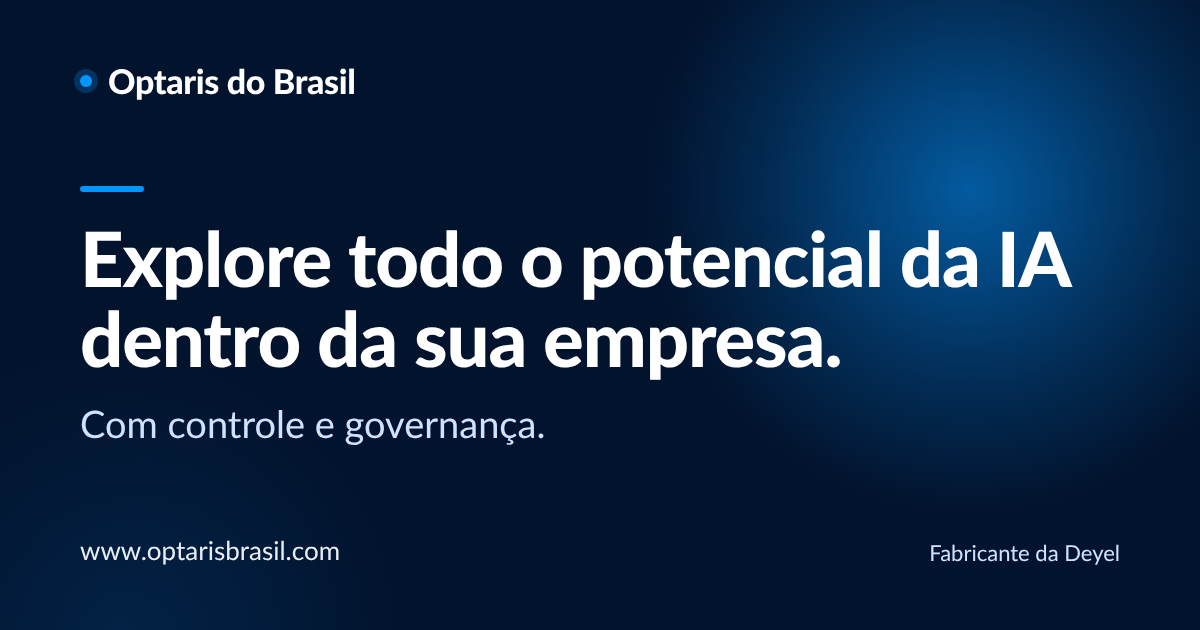
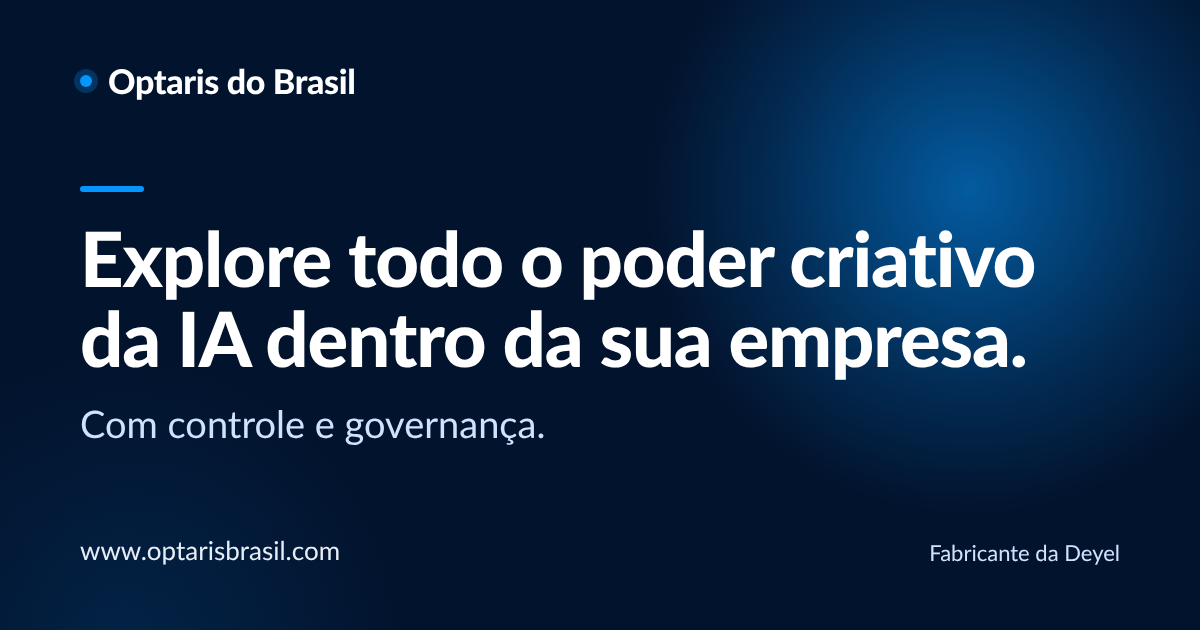
Prévia de link: alinhar chamada ao texto do site (poder criativo da IA)
Claude-Session: https://claude.ai/code/session_01NpVeUqste2Zj2cb1xEYUkR

Changed region(s): [[0.0925, 0.4825, 0.8633, 0.6032], [0.555, 0.3619, 0.8942, 0.4825]]

diff --git a/index.html b/index.html
@@ -16,14 +16,14 @@
 <meta property="og:locale" content="pt_BR">
 <meta property="og:site_name" content="Optaris do Brasil">
 <meta property="og:url" content="https://www.optarisbrasil.com/">
-<meta property="og:title" content="Optaris do Brasil | Explore todo o potencial da IA dentro da sua empresa">
+<meta property="og:title" content="Optaris do Brasil | Explore todo o poder criativo da IA dentro da sua empresa">
 <meta property="og:description" content="Crie aplicativos e digitalize processos com IA, com controle e governança. Direto com a Optaris, fabricante da Deyel, no Brasil.">
 <meta property="og:image" content="https://www.optarisbrasil.com/og-optarisbrasil-ia.png">
 <meta property="og:image:width" content="1200">
 <meta property="og:image:height" content="630">
-<meta property="og:image:alt" content="Optaris do Brasil: explore todo o potencial da IA dentro da sua empresa">
+<meta property="og:image:alt" content="Optaris do Brasil: explore todo o poder criativo da IA dentro da sua empresa">
 <meta name="twitter:card" content="summary_large_image">
-<meta name="twitter:title" content="Optaris do Brasil | Explore todo o potencial da IA dentro da sua empresa">
+<meta name="twitter:title" content="Optaris do Brasil | Explore todo o poder criativo da IA dentro da sua empresa">
 <meta name="twitter:description" content="Crie aplicativos e digitalize processos com IA, com controle e governança. Direto com a Optaris, fabricante da Deyel, no Brasil.">
 <meta name="twitter:image" content="https://www.optarisbrasil.com/og-optarisbrasil-ia.png">
 <link rel="icon" href="https://www.optaris.com/wp-content/uploads/2025/07/favicon-25-25.png">

diff --git a/gestao-de-compras-e-fornecedores/index.html b/gestao-de-compras-e-fornecedores/index.html
@@ -18,7 +18,7 @@
 <meta property="og:image" content="https://www.optarisbrasil.com/og-optarisbrasil-ia.png">
 <meta property="og:image:width" content="1200">
 <meta property="og:image:height" content="630">
-<meta property="og:image:alt" content="Optaris do Brasil: explore todo o potencial da IA dentro da sua empresa">
+<meta property="og:image:alt" content="Optaris do Brasil: explore todo o poder criativo da IA dentro da sua empresa">
 <meta name="twitter:card" content="summary_large_image">
 <meta name="twitter:title" content="Gestão de compras e fornecedores, da solicitação ao pagamento">
 <meta name="twitter:description" content="Gestão de compras e fornecedores da solicitação ao pagamento: autorização, estoque, cotação, mapa de compras, pedido, nota fiscal e pagamento, com homologação de fornecedores (S2P + SRM).">

diff --git a/ads-dms/index.html b/ads-dms/index.html
@@ -18,7 +18,7 @@
 <meta property="og:image" content="https://www.optarisbrasil.com/og-optarisbrasil-ia.png">
 <meta property="og:image:width" content="1200">
 <meta property="og:image:height" content="630">
-<meta property="og:image:alt" content="Optaris do Brasil: explore todo o potencial da IA dentro da sua empresa">
+<meta property="og:image:alt" content="Optaris do Brasil: explore todo o poder criativo da IA dentro da sua empresa">
 <meta name="twitter:card" content="summary_large_image">
 <meta name="twitter:title" content="Migração Natural/Adabas sem reescrever, com ConsistADS e DMS">
 <meta name="twitter:description" content="Migração Natural/Adabas sem reescrever: o ConsistADS roda os programas Natural em banco relacional e o DMS leva os dados do Adabas para DB2, Oracle ou MySQL.">

diff --git a/politica-de-licenciamento/index.html b/politica-de-licenciamento/index.html
@@ -18,7 +18,7 @@
 <meta property="og:image" content="https://www.optarisbrasil.com/og-optarisbrasil-ia.png">
 <meta property="og:image:width" content="1200">
 <meta property="og:image:height" content="630">
-<meta property="og:image:alt" content="Optaris do Brasil: explore todo o potencial da IA dentro da sua empresa">
+<meta property="og:image:alt" content="Optaris do Brasil: explore todo o poder criativo da IA dentro da sua empresa">
 <meta name="twitter:card" content="summary_large_image">
 <meta name="twitter:title" content="Política de Emissão e Sustentação de Licenças Consist | Optaris do Brasil">
 <meta name="twitter:description" content="Canais, prazos e condições para emissão e reemissão das licenças Consist contratadas com a Optaris.">

diff --git a/solucoes-consist/index.html b/solucoes-consist/index.html
@@ -18,7 +18,7 @@
 <meta property="og:image" content="https://www.optarisbrasil.com/og-optarisbrasil-ia.png">
 <meta property="og:image:width" content="1200">
 <meta property="og:image:height" content="630">
-<meta property="og:image:alt" content="Optaris do Brasil: explore todo o potencial da IA dentro da sua empresa">
+<meta property="og:image:alt" content="Optaris do Brasil: explore todo o poder criativo da IA dentro da sua empresa">
 <meta name="twitter:card" content="summary_large_image">
 <meta name="twitter:title" content="Soluções Consist no Brasil | Optaris do Brasil">
 <meta name="twitter:description" content="Licenciamento, migração Natural/Adabas e sobrevida dos aplicativos Consist com a Deyel, num só lugar.">

diff --git a/licencas-consist/index.html b/licencas-consist/index.html
@@ -18,7 +18,7 @@
 <meta property="og:image" content="https://www.optarisbrasil.com/og-optarisbrasil-ia.png">
 <meta property="og:image:width" content="1200">
 <meta property="og:image:height" content="630">
-<meta property="og:image:alt" content="Optaris do Brasil: explore todo o potencial da IA dentro da sua empresa">
+<meta property="og:image:alt" content="Optaris do Brasil: explore todo o poder criativo da IA dentro da sua empresa">
 <meta name="twitter:card" content="summary_large_image">
 <meta name="twitter:title" content="Licenças Consist Software Solutions Inc no Brasil | Optaris do Brasil">
 <meta name="twitter:description" content="Valores de referência e pedido de cotação das licenças Consist no Brasil.">

diff --git a/midia/index.html b/midia/index.html
@@ -18,7 +18,7 @@
 <meta property="og:image" content="https://www.optarisbrasil.com/og-optarisbrasil-ia.png">
 <meta property="og:image:width" content="1200">
 <meta property="og:image:height" content="630">
-<meta property="og:image:alt" content="Optaris do Brasil: explore todo o potencial da IA dentro da sua empresa">
+<meta property="og:image:alt" content="Optaris do Brasil: explore todo o poder criativo da IA dentro da sua empresa">
 <meta name="twitter:card" content="summary_large_image">
 <meta name="twitter:title" content="Mídia: Optaris Brasil e Deyel na imprensa">
 <meta name="twitter:description" content="Entrevistas, artigos e reportagens sobre a Deyel e a Optaris Brasil, reunidos num só lugar.">
